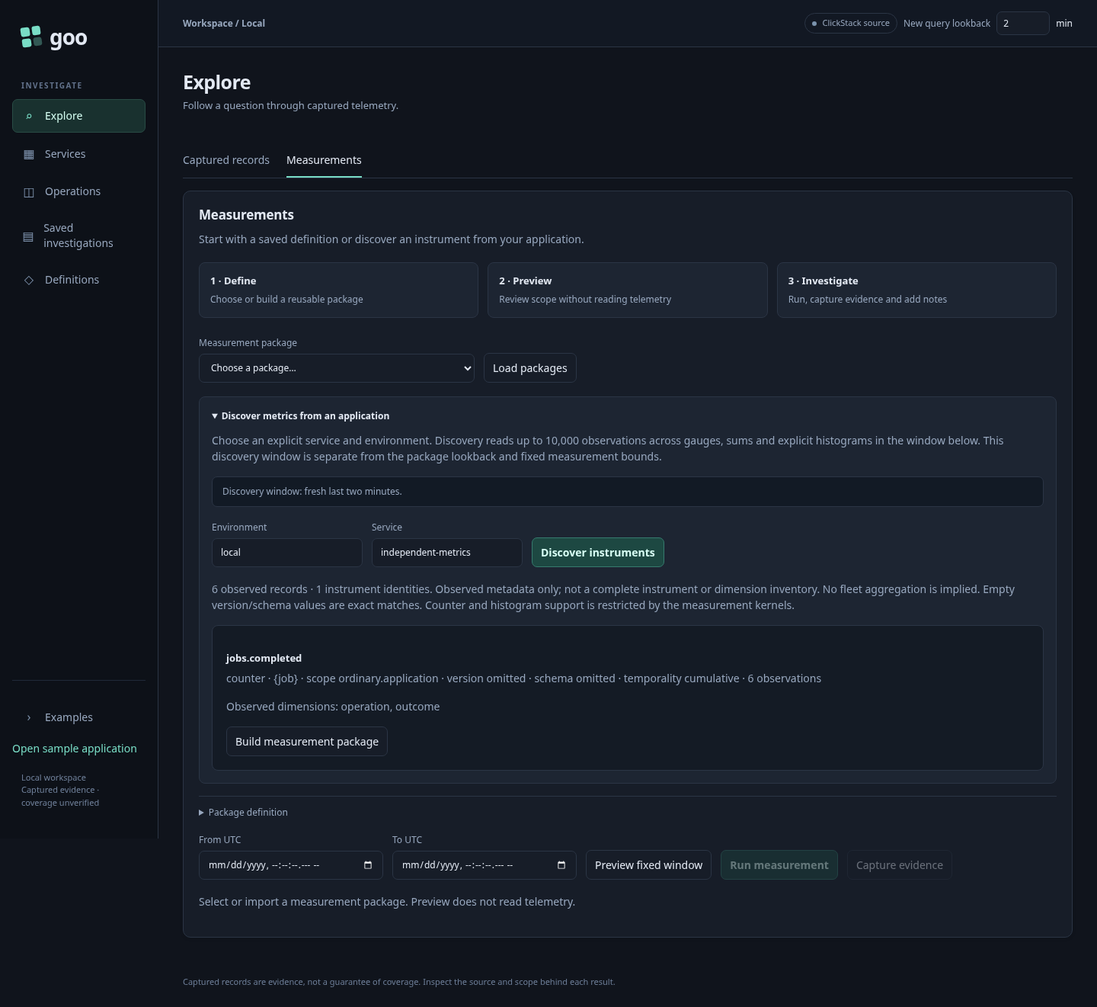
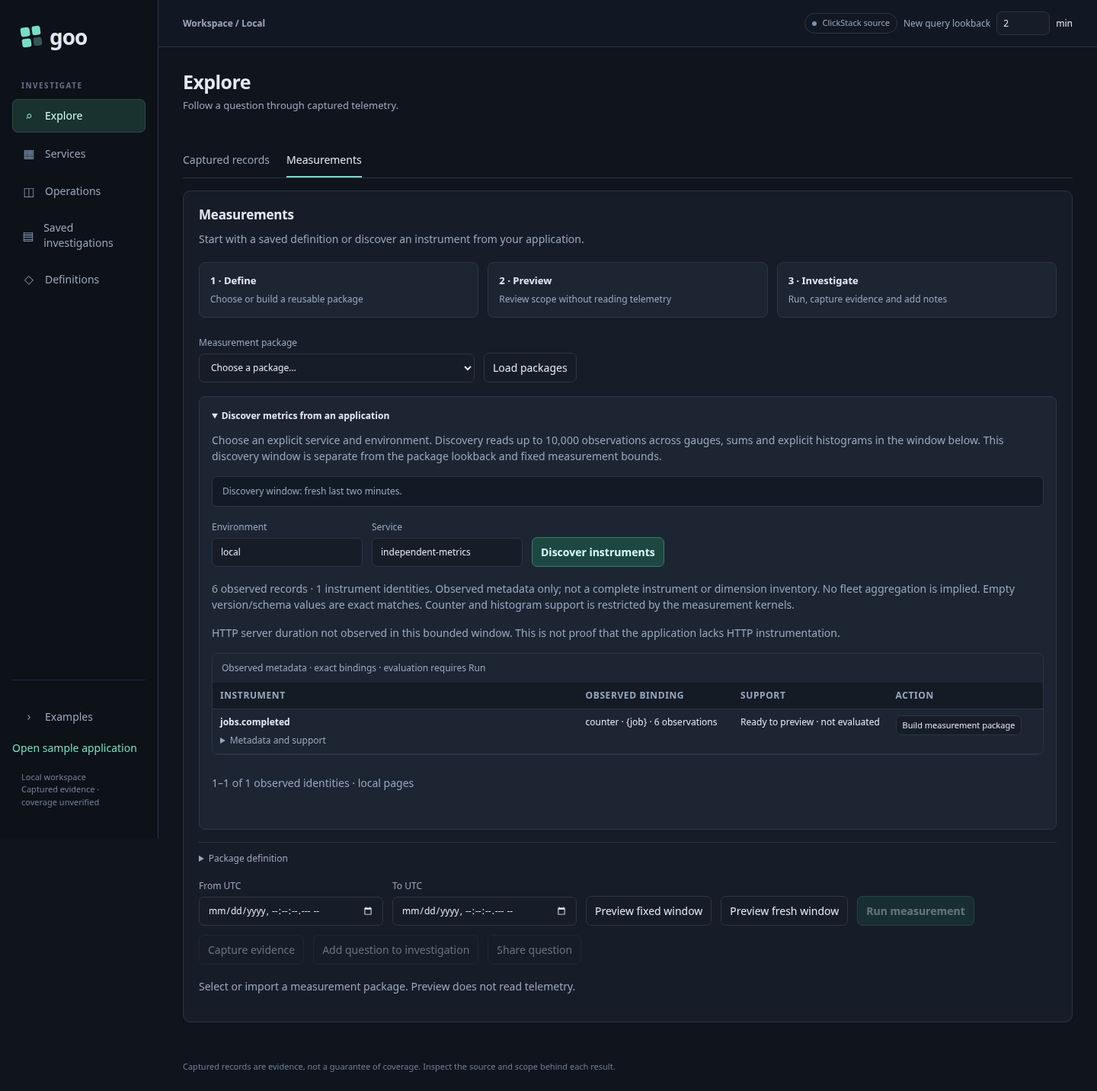
Add compact native instrument discovery with HTTP capability hints

diff --git a/journeys/instrument-capabilities.spec.js b/journeys/instrument-capabilities.spec.js
@@ -1,0 +1,13 @@
+const {test,expect}=require('@playwright/test'),{randomBytes}=require('node:crypto'),fs=require('node:fs/promises'),path=require('node:path'),{verifyWithGo,startBombadil}=require('./support/cross-app');
+const base=process.env.GOO_QUERY_URL||'http://127.0.0.1:8088';
+test('130 discover manifest-free HTTP and custom instruments, stage exact binding and run explicitly',async({page,request})=>{
+ test.setTimeout(150000);const token=randomBytes(5).toString('hex'),environment='instrument-'+token,service='polyglot-api',end=Date.now(),attrs=o=>Object.entries(o).map(([key,stringValue])=>({key,value:{stringValue}})),point={startTimeUnixNano:String(BigInt(end-2000)*1000000n),timeUnixNano:String(BigInt(end-1000)*1000000n)},hist=unit=>({name:'http.server.request.duration',unit,histogram:{aggregationTemporality:1,dataPoints:[{...point,count:'3',sum:.6,bucketCounts:['1','2','0'],explicitBounds:[.1,1],attributes:attrs({'http.request.method':'GET'})}]}});
+ expect((await request.post('http://127.0.0.1:4318/v1/metrics',{data:{resourceMetrics:[{resource:{attributes:attrs({'service.name':service,'service.instance.id':'node-one','deployment.environment.name':environment})},scopeMetrics:[{scope:{name:'ordinary.http',version:'2'},schemaUrl:'https://opentelemetry.io/schemas/1.30.0',metrics:[hist('s'),hist('ms'),{name:'jobs.completed',unit:'{job}',sum:{aggregationTemporality:1,isMonotonic:true,dataPoints:[{...point,asInt:'3'}]}},{name:'http.server.active_requests',unit:'{request}',sum:{aggregationTemporality:1,isMonotonic:false,dataPoints:[{...point,asInt:'2'}]}}]}]}]}})).ok()).toBe(true);
+ const question={environment,service,fromMs:end-5000,toMs:end};await expect.poll(async()=>{const r=await request.post(base+'/api/metric-discovery',{data:question});return r.ok()&&(await r.json()).instruments.length},{timeout:45000}).toBe(4);
+ let discoveryReads=0,evaluations=0,writes=0;const errors=[];page.on('pageerror',e=>errors.push(e.message));page.on('request',r=>{if(r.method()!=='POST')return;const p=new URL(r.url()).pathname;if(p==='/api/metric-discovery')discoveryReads++;if(p==='/api/measurements')evaluations++;if(['/api/captures','/api/measurement-packages','/api/documents'].includes(p))writes++});
+ await page.goto(base+'/#questions');await page.evaluate(q=>dispatchEvent(new CustomEvent('goo:discover-metrics',{detail:q})),question);expect(discoveryReads).toBe(0);await expect(page.locator('#metricDiscover')).toBeFocused();const pending=page.waitForResponse(r=>r.url().endsWith('/api/metric-discovery'));await page.locator('#metricDiscover').click();const discovery=await(await pending).json(),catalog=page.locator('#metricInstruments'),rows=catalog.locator('tbody tr');await expect(rows).toHaveCount(4);await catalog.screenshot({path:'docs/journeys/screenshots/130a-observed-instrument-capabilities.png'});const seconds=rows.filter({hasText:'histogram · s ·'}),milliseconds=rows.filter({hasText:'histogram · ms ·'}),custom=rows.filter({hasText:'jobs.completed'}),unsupported=rows.filter({hasText:'http.server.active_requests'});
+ await seconds.getByText('Metadata and support',{exact:true}).click();await expect(seconds).toContainText('OpenTelemetry semantic conventions v1.30.0');await expect(seconds).toContainText('no HTTP error-rate view');await expect(seconds).toHaveAttribute('data-verification','not-run');await milliseconds.getByText('Metadata and support',{exact:true}).click();await expect(milliseconds).toContainText('No automatic conversion');await custom.getByText('Metadata and support',{exact:true}).click();await expect(custom).toContainText('Generic exact metric binding');await expect(unsupported.getByRole('button')).toBeDisabled();expect(evaluations).toBe(0);expect(writes).toBe(0);
+ await milliseconds.getByText('Metadata and support',{exact:true}).click();await custom.getByText('Metadata and support',{exact:true}).click();await catalog.screenshot({path:'docs/journeys/screenshots/130c-http-metadata-hints.png'});
+ const previewed=page.waitForResponse(r=>r.url().endsWith('/api/measurement-packages/plan'));await seconds.getByRole('button',{name:'Build measurement package',exact:true}).click();const plan=await(await previewed).json();await expect(page.locator('#measureStatus')).toContainText('Question validated');expect(evaluations).toBe(0);expect(writes).toBe(0);const selected=discovery.instruments.find(i=>i.kind==='histogram'&&i.unit==='s');expect(plan.definition).toEqual(selected.definition);const executed=page.waitForResponse(r=>r.url().endsWith('/api/measurements'));await page.locator('#measureRun').click();const result=await(await executed).json();expect(result.question.definition).toEqual(selected.definition);expect(result.question.fromMs).toBe(question.fromMs);expect(result.question.toMs).toBe(question.toMs);expect(result.histograms.series[0].stream.unit).toBe('s');await expect(page.locator('#measureResult')).toContainText('histogram');expect(evaluations).toBe(1);expect(writes).toBe(0);
+ await page.setViewportSize({width:390,height:844});expect(await page.evaluate(()=>document.documentElement.scrollWidth<=innerWidth)).toBe(true);await catalog.screenshot({path:'docs/journeys/screenshots/130b-instrument-catalog-mobile.png'});expect(errors).toEqual([]);const dir=path.resolve('artifacts/instrument-capabilities',token);await fs.mkdir(dir,{recursive:true});const ledger=path.join(dir,'ledger.json');await fs.writeFile(ledger,JSON.stringify({discovery,result,discoveryReads,evaluations,writes},null,2));await verifyWithGo(dir,'TestQuintMetricDiscoveryLedger',{GOO_METRIC_DISCOVERY_LEDGER:ledger});if(process.env.GOO_INSTRUMENT_CAPABILITIES_BOMBADIL==='1'){const specification=path.join(dir,'campaign.ts'),source=await fs.readFile('verification/bombadil/instrument-capabilities.ts','utf8');await fs.writeFile(specification,source.replace("const fixture={environment:'local',service:'independent-metrics'};",'const fixture='+JSON.stringify({environment,service})+';'));const actor=await startBombadil({dir:path.join(dir,'bombadil'),url:base+'/#questions',specification,seconds:25});try{await actor.finish()}finally{await actor.stop()}}
+});

diff --git a/ui/measurements.js b/ui/measurements.js
@@ -99,7 +99,7 @@
   let discoveryGeneration=0,discoveryController=null,discoveryNamespace=null,discoveryBounds=null;
   const clearDiscovery=(message='Scope changed. Discover again.')=>{discoveryGeneration++;discoveryController?.abort();discoveryController=null;el('metricDiscover').disabled=false;el('metricDiscoveryCancel').hidden=true;el('metricInstruments').replaceChildren();el('metricDiscoveryStatus').textContent=message};
   const editDiscoveryScope=()=>{discoveryBounds=null;discoveryNamespace=null;el('metricDiscoveryWindow').textContent='Discovery window: fresh last two minutes.';clearDiscovery()};el('metricEnvironment').oninput=editDiscoveryScope;el('metricService').oninput=editDiscoveryScope;el('metricDiscoveryCancel').onclick=()=>clearDiscovery('Discovery canceled. No catalog published.');
-  el('metricDiscover').onclick=async()=>{discoveryController?.abort();discoveryController=new AbortController();const active=discoveryController,g=++discoveryGeneration;el('metricDiscover').disabled=true;el('metricDiscoveryCancel').hidden=false;el('metricInstruments').replaceChildren();el('metricDiscoveryStatus').textContent='Reading bounded instrument metadata…';const toMs=Date.now();try{const data=await global.GooQueries.post('/api/metric-discovery',{environment:el('metricEnvironment').value,service:el('metricService').value,...(discoveryNamespace?{namespace:discoveryNamespace}:{}),...(discoveryBounds||{fromMs:toMs-120000,toMs})},active.signal);const result=await data.json();if(!data.ok)throw Error(result.error);if(g!==discoveryGeneration)return;el('metricDiscoveryStatus').textContent=`${result.records} observed records · ${result.instruments.length} instrument identities. ${result.warning}`;for(const i of result.instruments){const row=node('article');row.className='definition-card';row.append(node('h3',i.metric),node('p',`${i.kind} · ${i.unit||'unit omitted'} · scope ${i.scope||'omitted'} · version ${i.version||'omitted'} · schema ${i.schemaURL||'omitted'} · temporality ${i.temporality===1?'delta':i.temporality===2?'cumulative':'not applicable'} · ${i.records} observations`),node('p','Observed dimensions: '+(i.dimensions||[]).join(', ')));const use=node('button',i.supported?'Build measurement package':'Unsupported by current kernels');use.disabled=!i.supported;use.onclick=()=>{el('measureEditor').open=true;open({yaml:JSON.stringify(i.definition,null,2),...(discoveryBounds||{})});};row.append(use);el('metricInstruments').append(row)}}catch(e){if(g===discoveryGeneration)el('metricDiscoveryStatus').textContent='Discovery unavailable · '+e.message}finally{if(g===discoveryGeneration){discoveryController=null;el('metricDiscover').disabled=false;el('metricDiscoveryCancel').hidden=true}}};
+  el('metricDiscover').onclick=async()=>{discoveryController?.abort();discoveryController=new AbortController();const active=discoveryController,g=++discoveryGeneration;el('metricDiscover').disabled=true;el('metricDiscoveryCancel').hidden=false;el('metricInstruments').replaceChildren();el('metricDiscoveryStatus').textContent='Reading bounded instrument metadata…';const toMs=Date.now();try{const data=await global.GooQueries.post('/api/metric-discovery',{environment:el('metricEnvironment').value,service:el('metricService').value,...(discoveryNamespace?{namespace:discoveryNamespace}:{}),...(discoveryBounds||{fromMs:toMs-120000,toMs})},active.signal);const result=await data.json();if(!data.ok)throw Error(result.error);if(g!==discoveryGeneration)return;el('metricDiscoveryStatus').textContent=`${result.records} observed records · ${result.instruments.length} instrument identities. ${result.warning}`;global.GooMetricDiscovery.render(el('metricInstruments'),result,{onBuild:i=>{el('measureEditor').open=true;open({yaml:JSON.stringify(i.definition,null,2),...(discoveryBounds||{})});}})}catch(e){if(g===discoveryGeneration)el('metricDiscoveryStatus').textContent='Discovery unavailable · '+e.message}finally{if(g===discoveryGeneration){discoveryController=null;el('metricDiscover').disabled=false;el('metricDiscoveryCancel').hidden=true}}};
   const catalog=document.getElementById('measurementDefinitions');
   const catalogView=catalog?global.GooDefinitionLibrary.mount(catalog,{describe:p=>({family:'measurement',revision:p.revision,name:p.definition.name,title:p.definition.title,summary:p.definition.kind+' · '+p.definition.environment+' · '+(p.builtin?'Built-in':'Saved'),search:[p.definition.name,p.definition.title,p.definition.kind,p.definition.environment,...p.definition.source.services,p.revision].join(' ')}),detail:p=>{const body=node('div'),use=node('button','Preview '+p.definition.title);use.onclick=()=>open(p);body.append(node('p',p.definition.source.services.join(', ')+' · '+p.definition.kind+' · '+p.definition.grain),use);return body}}):null;
   function renderCatalog(){if(!catalogView)return;catalogView.set(items);catalogView.search(document.getElementById('measurementDefinitionSearch').value||'');document.getElementById('measurementDefinitionStatus').textContent=items.length+' loaded package revisions. Inspect and preview do not read telemetry.'}

diff --git a/ui/index.html b/ui/index.html
@@ -43,7 +43,7 @@
 <script src="/ratios.js"></script>
 <script src="/fleet.js"></script>
 <script src="/investigations.js"></script>
-<script src="/question-scope.js"></script><script src="/followups.js"></script><script src="/value-timeline.js"></script><script src="/native-presentation.js"></script><script src="/measurements.js"></script><script src="/recipes.js"></script><script src="/window-discovery.js"></script><script src="/comparison-breakdown.js"></script><script src="/comparison-inspection.js"></script><script src="/evidence-comparison.js"></script><script src="/chart-frame.js"></script><script src="/live-comparison.js"></script><script src="/fresh-comparison.js"></script><script src="/meaning.js"></script><script src="/pending-saves.js"></script><script src="/retention-client.js"></script><script src="/retention-citations.js"></script><script src="/retention-recovery.js"></script><script src="/retention-catalog.js"></script><script src="/retention.js"></script><script src="/documents.js"></script><script src="/saved-workspace.js"></script><script src="/deployments.js"></script><script src="/question-session.js"></script><script src="/numeric-measures.js"></script><script src="/grouped-time-series.js"></script><script src="/comparison-series.js"></script><script src="/comparison-series-owner.js"></script><script src="/comparison-visual.js"></script><script src="/time-bars.js"></script><script src="/population-selection.js"></script><script src="/distributions.js"></script>
+<script src="/question-scope.js"></script><script src="/followups.js"></script><script src="/value-timeline.js"></script><script src="/native-presentation.js"></script><script src="/instrument-capabilities.js"></script><script src="/metric-discovery.js"></script><script src="/measurements.js"></script><script src="/recipes.js"></script><script src="/window-discovery.js"></script><script src="/comparison-breakdown.js"></script><script src="/comparison-inspection.js"></script><script src="/evidence-comparison.js"></script><script src="/chart-frame.js"></script><script src="/live-comparison.js"></script><script src="/fresh-comparison.js"></script><script src="/meaning.js"></script><script src="/pending-saves.js"></script><script src="/retention-client.js"></script><script src="/retention-citations.js"></script><script src="/retention-recovery.js"></script><script src="/retention-catalog.js"></script><script src="/retention.js"></script><script src="/documents.js"></script><script src="/saved-workspace.js"></script><script src="/deployments.js"></script><script src="/question-session.js"></script><script src="/numeric-measures.js"></script><script src="/grouped-time-series.js"></script><script src="/comparison-series.js"></script><script src="/comparison-series-owner.js"></script><script src="/comparison-visual.js"></script><script src="/time-bars.js"></script><script src="/population-selection.js"></script><script src="/distributions.js"></script>
 <script src="/discovery.js"></script>
 <script src="/captures.js"></script><script src="/service-identity.js"></script><script src="/time-range.js"></script><script src="/service-timeline.js"></script><script src="/service-dashboard.js"></script><script src="/distributed-services.js"></script><script src="/service-browser.js"></script><script src="/inventory.js"></script><script src="/record-presentation.js"></script><script src="/record-columns.js"></script><script src="/tail.js"></script><script src="/trace-journey.js"></script><script src="/population-workspace.js"></script><script src="/record-results.js"></script><script src="/saved-records.js"></script><script src="/exploration.js"></script><script src="/investigation-trail.js"></script><script src="/stream-entry.js"></script><script src="/telemetry-packages.js"></script>
 <script>

diff --git a/ui/instrument-capabilities.js b/ui/instrument-capabilities.js
@@ -1,0 +1,25 @@
+/* Metadata-only capability hints. Preview/Run remain authoritative. */
+(function(global){
+ const ruleSet='OpenTelemetry semantic conventions v1.30.0',schema='https://opentelemetry.io/schemas/1.30.0';
+ function describe(instrument){
+  const i=instrument||{},http=i.metric==='http.server.request.duration',eligible=i.supported===true&&!!i.definition,dimensions=new Set(i.dimensions||[]),reasons=[];
+  if(!i.scope)reasons.push('Instrumentation scope is omitted.');
+  if(!i.unit)reasons.push('Unit is omitted.');
+  if(['counter','histogram'].includes(i.kind)&&![1,2].includes(i.temporality))reasons.push('Aggregation temporality is unsupported.');
+  if(i.kind==='counter'&&!i.monotonic)reasons.push('Non-monotonic sums are not supported by the counter kernel.');
+  if(i.kind==='histogram'&&!['s','ms'].includes(i.unit))reasons.push('The current histogram kernel requires seconds or milliseconds.');
+  if(!eligible&&!reasons.length)reasons.push('No valid package binding is available from the current kernels.');
+  const hints=[];
+  if(http){
+   if(i.kind!=='histogram')hints.push('The pinned HTTP duration convention requires a histogram. Use the generic binding.');
+   if(i.unit!=='s')hints.push('The pinned HTTP duration convention requires unit s. No automatic conversion is applied.');
+   hints.push(i.schemaURL===schema?'Schema URL matches the pinned rule set; this does not verify conformance.':i.schemaURL?'Other schema URL; no schema migration or conformance is inferred.':'Schema URL omitted; convention conformance is unverified.');
+   hints.push(dimensions.has('http.request.method')?'HTTP method key observed.':'HTTP method key not observed in this window.');
+   hints.push(dimensions.has('http.response.status_code')?'HTTP status key observed; no error policy or denominator has been verified.':'HTTP status key not observed; no HTTP error-rate view is offered.');
+   hints.push(i.kind==='histogram'&&eligible&&['s','ms'].includes(i.unit)?'Run can evaluate retained histogram observations and bucket ranges per exact stream. Complete interval coverage is still required; no fleet percentile or request rate is inferred.':'HTTP duration views are not established by this metadata. Retain the generic binding if it is eligible.');
+  }else hints.push('Generic exact metric binding; no application convention is inferred.');
+  return {profile:http?'http-server-duration':'generic',title:http?'HTTP server duration candidate':'Generic metric',ruleSet:http?ruleSet:null,shapeMatches:http&&i.kind==='histogram'&&i.unit==='s',eligible,verification:'not-run',reasons,hints};
+ }
+ function catalog(instruments){return instruments.some(i=>i.metric==='http.server.request.duration')?'HTTP server duration metadata observed. Convention hints do not verify data coverage.':'HTTP server duration not observed in this bounded window. This is not proof that the application lacks HTTP instrumentation.'}
+ const api={describe,catalog,ruleSet,schema};if(typeof module!=='undefined')module.exports=api;else global.GooInstrumentCapabilities=api;
+})(typeof window==='undefined'?globalThis:window);

diff --git a/ui/metric-discovery.js b/ui/metric-discovery.js
@@ -1,0 +1,12 @@
+/* Application-owned catalog presentation; local paging/disclosure never execute sources. */
+(function(global){
+ function render(host,result,{onBuild}){
+  const n=global.GooUI.node,items=result.instruments||[],note=n('p',global.GooInstrumentCapabilities.catalog(items)),body=n('div'),controls=n('div',undefined,'controls'),previous=n('button','Previous instruments'),next=n('button','More instruments'),status=n('p');let offset=0;status.setAttribute('role','status');controls.append(previous,next,status);host.replaceChildren(note,body,controls);
+  function draw(){body.replaceChildren();const viewport=n('goo-table'),table=n('table'),head=n('thead'),tr=n('tr'),rows=n('tbody');viewport.className='instrument-catalog-table';viewport.setAttribute('density','compact');viewport.setAttribute('aria-label','Observed metric instruments');table.append(n('caption','Observed metadata · exact bindings · evaluation requires Run'));for(const label of ['Instrument','Observed binding','Support','Action']){const th=n('th',label);th.scope='col';tr.append(th)}head.append(tr);table.append(head,rows);viewport.append(table);body.append(viewport);
+   for(const i of items.slice(offset,offset+25)){const c=global.GooInstrumentCapabilities.describe(i),row=n('tr'),name=n('td'),binding=n('td',i.kind+' · '+(i.unit||'unit omitted')+' · '+i.records+' observations'),support=n('td'),action=n('td'),detail=n('details');row.dataset.instrument=i.metric;row.dataset.profile=c.profile;row.dataset.verification=c.verification;name.append(n('strong',i.metric));detail.append(n('summary','Metadata and support'),n('p',c.title+(c.ruleSet?' · '+c.ruleSet:'')),n('p','scope '+(i.scope||'omitted')+' · version '+(i.version||'omitted')+' · schema '+(i.schemaURL||'omitted')+' · temporality '+(i.temporality===1?'delta':i.temporality===2?'cumulative':'not applicable')),n('p','Observed dimensions (keys only, not coverage): '+((i.dimensions||[]).join(', ')||'none observed')));for(const text of [...c.reasons,...c.hints])detail.append(n('p',text));name.append(detail);support.append(n('span',c.eligible?'Ready to preview · not evaluated':'Unsupported instrument'));const use=n('button',c.eligible?'Build measurement package':'Unsupported instrument');use.disabled=!c.eligible;use.onclick=()=>onBuild(i);action.append(use);row.append(name,binding,support,action);rows.append(row)}
+   if(!items.length)body.append(n('p','No instruments observed in this window.'));previous.hidden=next.hidden=items.length<=25;previous.disabled=offset===0;next.disabled=offset+25>=items.length;status.textContent=(items.length?offset+1:0)+'–'+Math.min(offset+25,items.length)+' of '+items.length+' observed identities · local pages';
+  }
+  previous.onclick=()=>{offset=Math.max(0,offset-25);draw()};next.onclick=()=>{offset+=25;draw()};draw();
+ }
+ global.GooMetricDiscovery={render};
+})(window);

diff --git a/verification/bombadil/instrument-capabilities.ts b/verification/bombadil/instrument-capabilities.ts
@@ -1,0 +1,10 @@
+import {always,eventually} from '@antithesishq/bombadil';
+import {extract,actions,registerCustomAction} from '@antithesishq/bombadil/browser';
+export {noUncaughtExceptions,noUnhandledPromiseRejections} from '@antithesishq/bombadil/browser/defaults/properties';
+const fixture={environment:'local',service:'independent-metrics'};
+const state=extract(({document,window})=>({ready:!!document.querySelector('#metricDiscover'),stage:Number(document.documentElement.dataset.instrumentStage||0),rows:document.querySelectorAll('#metricInstruments tbody tr').length,notRun:[...document.querySelectorAll('#metricInstruments tbody tr')].every(r=>(r as HTMLElement).dataset.verification==='not-run'),effects:window.performance.getEntriesByType('resource').filter(e=>/\/api\/(measurements|captures)$/.test(new URL(e.name).pathname)).length}));
+export const noImplicitEvaluation=always(()=>state.current.effects===0&&state.current.notRun);
+export const complete=eventually(()=>state.current.stage===2).within(20,'seconds');
+const discover=registerCustomAction('goo.instrumentDiscover',async(document,window,environmentValue:string,serviceValue:string)=>{window.dispatchEvent(new CustomEvent('goo:measurements-tab'));const environment=document.getElementById('metricEnvironment')as HTMLInputElement;environment.value=environmentValue;environment.dispatchEvent(new Event('input',{bubbles:true}));const service=document.getElementById('metricService')as HTMLInputElement;service.value=serviceValue;service.dispatchEvent(new Event('input',{bubbles:true}));(document.getElementById('metricDiscover')as HTMLButtonElement)?.click();document.documentElement.dataset.instrumentStage='1'});
+const inspect=registerCustomAction('goo.instrumentMetadata',async(document)=>{for(const d of document.querySelectorAll<HTMLDetailsElement>('#metricInstruments details'))(d.querySelector('summary')as HTMLElement)?.click();document.documentElement.dataset.instrumentStage='2'});
+export const choices=actions(()=>!state.current.ready?['Wait']:state.current.stage===0?[discover(fixture.environment,fixture.service)]:state.current.stage===1&&state.current.rows>0?[inspect()]:['Wait']);

diff --git a/journeys/instrument-catalog-components.spec.js b/journeys/instrument-catalog-components.spec.js
@@ -1,0 +1,4 @@
+const {test,expect}=require('@playwright/test');const base=process.env.GOO_QUERY_URL||'http://127.0.0.1:8088';
+test('130 supplied instrument catalog pages and disclosure stay local and preserve exact build intent',async({page})=>{
+ const requests=[];page.on('request',r=>{if(r.url().includes('/api/'))requests.push(r.url())});await page.goto(base+'/ui-components');await page.addScriptTag({url:base+'/instrument-capabilities.js'});await page.addScriptTag({url:base+'/metric-discovery.js'});await page.evaluate(()=>{const host=document.createElement('section');host.id='catalog-fixture';document.querySelector('.examples').prepend(host);window.builds=[];const instruments=Array.from({length:30},(_,i)=>({metric:'custom.metric.'+String(i).padStart(2,'0'),kind:'gauge',unit:'1',scope:'custom.runtime',version:'',schemaURL:'',records:1,supported:true,definition:{name:'exact-'+i},dimensions:[]}));GooMetricDiscovery.render(host,{instruments},{onBuild:i=>window.builds.push(i)})});const catalog=page.locator('#catalog-fixture');await expect(catalog.locator('tbody tr')).toHaveCount(25);await expect(catalog).toContainText('not proof');await catalog.getByRole('button',{name:'More instruments',exact:true}).click();await expect(catalog.locator('tbody tr')).toHaveCount(5);await expect(catalog.locator('[role=status]')).toContainText('26–30 of 30');await catalog.locator('summary').first().click();await expect(catalog).toContainText('version omitted');await catalog.getByRole('button',{name:'Build measurement package',exact:true}).first().click();expect(await page.evaluate(()=>window.builds[0].definition)).toEqual({name:'exact-25'});await catalog.getByRole('button',{name:'Previous instruments',exact:true}).click();await expect(catalog.locator('tbody tr')).toHaveCount(25);expect(requests).toEqual([]);
+});

diff --git a/tests/instrument-capabilities.test.js b/tests/instrument-capabilities.test.js
@@ -1,0 +1,4 @@
+const {test}=require('node:test'),assert=require('node:assert/strict'),{describe,catalog,schema}=require('../ui/instrument-capabilities');
+const candidate={metric:'http.server.request.duration',kind:'histogram',unit:'s',scope:'http.library',schemaURL:schema,temporality:1,supported:true,definition:{source:{unit:'s'}},dimensions:['http.request.method']};
+test('pinned HTTP metadata never claims verified coverage or invents error support',()=>{const before=structuredClone(candidate),c=describe(candidate);assert.equal(c.profile,'http-server-duration');assert.equal(c.shapeMatches,true);assert.equal(c.verification,'not-run');assert.equal(c.eligible,true);assert(c.hints.some(x=>x.includes('no HTTP error-rate')));assert.deepEqual(candidate,before);assert.equal(describe({...candidate,unit:'ms'}).shapeMatches,false);const gauge=describe({...candidate,kind:'gauge'});assert.equal(gauge.shapeMatches,false);assert(gauge.hints.some(x=>x.includes('not established')));assert(!gauge.hints.some(x=>x.includes('bucket ranges')));assert.equal(describe({...candidate,supported:false}).eligible,false);assert.equal(describe({...candidate,definition:null}).eligible,false)});
+test('unknown schemas and custom names retain generic interpretation without conversions',()=>{assert(describe({...candidate,schemaURL:''}).hints.some(x=>x.includes('unverified')));assert(describe({...candidate,schemaURL:'https://example.test/custom'}).hints.some(x=>x.includes('no schema migration')));const c=describe({...candidate,metric:'custom.duration'});assert.equal(c.profile,'generic');assert.equal(c.shapeMatches,false);assert(catalog([]).includes('not proof'));assert(describe({...candidate,kind:'counter',monotonic:false,supported:false}).reasons.some(x=>x.includes('Non-monotonic')))});

diff --git a/ui/product.css b/ui/product.css
@@ -975,7 +975,12 @@ td details {
 .measurement-steps span {font-size:12px;color:var(--muted);margin-top:5px}
 #metricDiscovery {padding:16px;border:1px solid var(--border);border-radius:8px;background:var(--surface-raised)}
 #metricDiscovery > summary {font-weight:600;color:var(--ink)}
-#metricInstruments {display:grid;grid-template-columns:repeat(auto-fit,minmax(min(100%,280px),1fr));gap:12px}
+#metricInstruments {display:block;min-width:0}
+.instrument-catalog-table>table{min-width:42rem;table-layout:fixed;width:100%}
+.instrument-catalog-table th:first-child{width:44%}
+.instrument-catalog-table td{vertical-align:top;white-space:normal;overflow-wrap:anywhere}
+.instrument-catalog-table details{margin-top:6px}
+.instrument-catalog-table details p{font-size:12px}
 #metricInstruments:empty {display:none}
 #measurementDefinitionSearch {min-width:240px}
 #measureRun,#metricDiscover {background:var(--accent-dark);border-color:#367b6e;color:#d8fff5;font-weight:600}

diff --git a/server.py b/server.py
@@ -73,7 +73,7 @@ class Handler(BaseHTTPRequestHandler):
         elif self.path in ('/definition-library.css','/native-presentation.css','/record-presentation.css','/time-range.css','/evidence-summary.css','/bucket-heatmap.css','/product.css', '/components.css','/waterfall.css','/time-bars.css','/chart-frame.css','/value-timeline.css'):
             self.send_response(200); self.send_header('Content-Type', 'text/css; charset=utf-8'); self.end_headers()
             self.wfile.write((Path(__file__).parent / 'ui' / self.path[1:]).read_bytes())
-        elif self.path in ('/comparison-series.js','/comparison-series-owner.js','/comparison-inspection.js','/record-columns.js','/saved-workspace.js','/field-presentation.js','/definition-library.js','/native-presentation.js','/record-results.js','/saved-records.js','/record-presentation.js','/stream-entry.js','/pending-saves.js','/meaning.js','/retention-client.js','/retention-citations.js','/retention-recovery.js','/retention-catalog.js','/retention.js','/population-workspace.js','/time-range.js','/service-timeline.js','/trace-journey.js','/population-selection.js','/investigation-trail.js','/evidence-summary.js','/evidence-scope.js','/bucket-heatmap.js','/value-timeline.js','/live-comparison.js','/chart-frame.js','/time-bars.js','/waterfall.js','/tail.js','/components.js','/comparison-visual.js','/service-identity.js','/service-dashboard.js','/distributed-services.js','/comparison-breakdown.js', '/fresh-comparison.js', '/window-discovery.js', '/evidence-comparison.js', '/service-browser.js', '/question-session.js', '/numeric-measures.js', '/grouped-time-series.js', '/question-scope.js', '/followups.js', '/guided-measurements.js', '/measurements.js', '/example-questions.js', '/recipes.js', '/documents.js', '/deployments.js', '/queries.js', '/namespace.js', '/captures.js', '/inventory.js', '/workspace.js', '/attributes.js', '/discovery.js', '/visualizations.js', '/workflows.js', '/operations.js', '/histograms.js', '/ratios.js', '/fleet.js', '/investigations.js', '/exploration.js', '/distributions.js', '/telemetry-packages.js'):
+        elif self.path in ('/instrument-capabilities.js','/metric-discovery.js','/comparison-series.js','/comparison-series-owner.js','/comparison-inspection.js','/record-columns.js','/saved-workspace.js','/field-presentation.js','/definition-library.js','/native-presentation.js','/record-results.js','/saved-records.js','/record-presentation.js','/stream-entry.js','/pending-saves.js','/meaning.js','/retention-client.js','/retention-citations.js','/retention-recovery.js','/retention-catalog.js','/retention.js','/population-workspace.js','/time-range.js','/service-timeline.js','/trace-journey.js','/population-selection.js','/investigation-trail.js','/evidence-summary.js','/evidence-scope.js','/bucket-heatmap.js','/value-timeline.js','/live-comparison.js','/chart-frame.js','/time-bars.js','/waterfall.js','/tail.js','/components.js','/comparison-visual.js','/service-identity.js','/service-dashboard.js','/distributed-services.js','/comparison-breakdown.js', '/fresh-comparison.js', '/window-discovery.js', '/evidence-comparison.js', '/service-browser.js', '/question-session.js', '/numeric-measures.js', '/grouped-time-series.js', '/question-scope.js', '/followups.js', '/guided-measurements.js', '/measurements.js', '/example-questions.js', '/recipes.js', '/documents.js', '/deployments.js', '/queries.js', '/namespace.js', '/captures.js', '/inventory.js', '/workspace.js', '/attributes.js', '/discovery.js', '/visualizations.js', '/workflows.js', '/operations.js', '/histograms.js', '/ratios.js', '/fleet.js', '/investigations.js', '/exploration.js', '/distributions.js', '/telemetry-packages.js'):
             self.send_response(200); self.send_header('Content-Type', 'application/javascript; charset=utf-8'); self.end_headers()
             self.wfile.write((Path(__file__).parent / 'ui' / self.path[1:]).read_bytes())
         else: self.send_error(404)

diff --git a/verification/instrument_capabilities_test.go b/verification/instrument_capabilities_test.go
@@ -1,0 +1,21 @@
+package verification
+
+import (
+	"hegel.dev/go/hegel"
+	"os/exec"
+	"strconv"
+	"testing"
+)
+
+func TestHegelInstrumentCapabilityHints(t *testing.T) {
+	hegel.Test(t, func(tc *hegel.T) {
+		kind := []string{"gauge", "counter", "histogram"}[hegel.Draw(tc, hegel.Integers(0, 2))]
+		unit := []string{"s", "ms", "By", ""}[hegel.Draw(tc, hegel.Integers(0, 3))]
+		support := hegel.Draw(tc, hegel.Integers(0, 1))
+		tempo := hegel.Draw(tc, hegel.Integers(0, 3))
+		script := `const a=require('node:assert/strict'),{describe}=require('../ui/instrument-capabilities');const [kind,unit,support,tempo]=process.argv.slice(1),i={metric:'http.server.request.duration',kind,unit,scope:'ordinary',temporality:Number(tempo),supported:support==='1',definition:{source:{unit}},dimensions:[]},before=structuredClone(i),c=describe(i);a.equal(c.shapeMatches,kind==='histogram'&&unit==='s');a.equal(c.eligible,support==='1');a.equal(c.verification,'not-run');a.deepEqual(i,before);a.equal(describe({...i,definition:null}).eligible,false);a.equal(describe({...i,metric:'other.metric'}).profile,'generic');a(c.hints.some(x=>x.includes('no HTTP error-rate')));if(kind!=='histogram')a(!c.hints.some(x=>x.includes('bucket ranges')));`
+		if out, e := exec.Command("node", "-e", script, kind, unit, strconv.Itoa(support), strconv.Itoa(tempo)).CombinedOutput(); e != nil {
+			tc.Fatal(e, string(out))
+		}
+	}, options(40)...)
+}

diff --git a/docs/IMPLEMENTATION_PLAN.md b/docs/IMPLEMENTATION_PLAN.md
@@ -52,7 +52,7 @@ research remains deferred, rather than becoming an automatic commitment.
 | C2 — startup wiring, pure planning JSON and audited transport/JSON and bounded OpenAPI acceptance delivered; remaining coverage queued | Inventory endpoint effects/policies and inject explicit startup dependencies; consolidate strict JSON/response helpers with per-route limits. Then extract bounded ClickHouse HTTP transport, one source family at a time. | Preserve method/status/error/body-limit compatibility, typed escaping, cancellation, non-2xx/oversize handling, family basis and limits. GET/comparison/capture execution is accounted for; SSE retains independent lifetime/no-store/disconnect semantics. Embedded and real-source journeys pass. No Python proxy removal in this cut. |
 | D1 — bounded milestone accepted | Unify two-sided comparison presentation, complete fitting inspector adoption and share count-series geometry where two real consumers agree. Add meaningful error/latency ranking and log-appropriate columns. | Independently named windows/bases; incompatible units/kinds remain refused; exact table fallback, common domains, large values and known-to-unknown updates; explicit source continuation and keyboard return. Stored/reread/live execution owners remain separate. |
 | D2 (partial: [raw-span rectangle](HEATMAP_SELECTION.md), [time widening](POPULATION_WORKSPACE.md#expanding-the-time-window), [categorical rest](POPULATION_PARTITIONS.md) and [whole-condition broadening](POPULATION_BROADENING.md) delivered) | Bounded population operations: supported column chooser/order, time-duration rectangle with keyboard equivalent, explicit scope widening and exact selection-versus-rest complement. | Typed Go operations preserve parent predicate, range/presence/overlap semantics and full totals independent of paging. Real journey captures/reopens selected evidence; Hegel properties and Quint rejecting controls cover changed execution/selection protocols. No generic predicate-algebra rewrite. |
-| E1 | Native instrument discovery within existing entry points; explicit capability planning for one pinned HTTP-server convention plus generic fallback, then one database-pool or messaging case. Add typed relations and coverage only with an actual supporting source. | Ordinary non-Go, manifest-free and custom OTel data work; missing/empty identities, units, temporality, batch and unsupported cases are honest; static declaration/observed data/verified support remain distinct. No inferred trace completeness or fleet percentiles. |
+| E1 — first metadata/catalog cut delivered; broader capability planning queued | Native instrument discovery within existing entry points; explicit capability planning for one pinned HTTP-server convention plus generic fallback, then one database-pool or messaging case. Add typed relations and coverage only with an actual supporting source. | Ordinary non-Go, manifest-free and custom OTel data work; missing/empty identities, units, temporality, batch and unsupported cases are honest; static declaration/observed data/verified support remain distinct. No inferred trace completeness or fleet percentiles. |
 | F1 — prerequisite-gated | Broaden recovery or exact retained targets only for one concrete supported write/fragment after its server idempotency and source-membership contract exists. Inject exact-reference resolution/clocks without making file document loading depend on XTDB. | Lost acknowledgements/reload preserve intent, IDs and distinct clocks; unsupported writes do not inherit native-journal promises; current-head search differs from pinned/history reads. Select a concrete review task before adding formal labels/export. |
 
 Current position: bounded S2/A3 is delivered. The [B1 definition-library slices](DEFINITION_LIBRARY.md) adopt compact record/native rows on Definitions, in fixed reusable questions and in the document revision catalog. Compatible retained catalog rows/inspectors and the client/basis, catalog, citation and recovery owner split are also delivered. Bounded B2 is delivered: the [record-field and service namespace presentation/fixture slices](FIELD_PRESENTATION.md) are delivered. [Shared-question/native wire fixtures and comparison default equivalence](QUESTION_PROTOCOL.md) are also delivered. The [acceptance audit](QUESTION_PROTOCOL.md#bounded-b2-acceptance-audit) records why no generic request owner was introduced. [C1 immutable publication](IMMUTABLE_PUBLICATION.md) has begun: package and deployment byte/ID fixtures passed before extraction; reusable-package and workbench publishers now share filesystem mechanics. Exploration and investigation capture fixtures now pin exact values/page response, digest differences and refresh compatibility; their publication mechanics are adopted with distinct duplicate policies. Lifecycle custody and native YAML now have frozen clock/bytes/revision/HTTP contracts and use the explicit file-only sync policy. The [C1 acceptance audit](IMMUTABLE_PUBLICATION.md#custody-and-native-yaml-continuation-fixtures) records bounded consolidation as delivered. [C2 HTTP ownership and transport](HTTP_BOUNDARIES.md) now inject startup ClickHouse/optional XTDB configuration while keeping read basis, source/capture/SSE lifetimes and custody distinct. All six audited Go ClickHouse readers share bounded transport primitives behind family contracts and readonly lab checks. Recipes/dashboard and telemetry/native/fixed exploration JSON share mechanics behind 236 frozen HTTP cases. The user-approved [OpenAPI contract](API.md) now covers 64 operations, reflected wire shapes, effects, limits, SSE events, CI conformance and browsable docs. Further mechanical JSON migration is paused. Executed API coverage now includes saved capture/live freeze/document flows, optional real XTDB retention/correction/pinned reviews and real HTTP proxy contracts. The local query/packages images are rebuilt; readonly API/docs acceptance and selected deployed product journeys are recorded in [API acceptance](API_ACCEPTANCE.md). Remaining endpoint/branch coverage and unresolved proxy-policy differences stay explicit; migrate further JSON mechanics only behind coverage for the touched owner. [Bounded D1 comparison acceptance](D1_ACCEPTANCE.md) is complete. E1 native instrument discovery is next; D2's remaining population operations and capability-gated S3 custody remain separate.
@@ -817,3 +817,9 @@ Stored/saved comparison action adoption is delivered alongside the fresh preview
 shared side commands, contextual saved-receipt retry, and grouped finding/receipt
 commands. This closes the bounded action pass. The [D1 acceptance audit](D1_ACCEPTANCE.md)
 passed; E1 native instrument discovery is the next milestone.
+
+E1's first [native instrument discovery cut](NATIVE_INSTRUMENT_DISCOVERY.md)
+adds a compact supplied-metadata table, local paging and pinned HTTP duration
+hints with generic fallback. Existing Go discovery/preview/evaluation owners stay
+authoritative. Typed convention capability plans, per-stream dimension coverage
+and a database-pool or messaging case remain E1 follow-up work.
